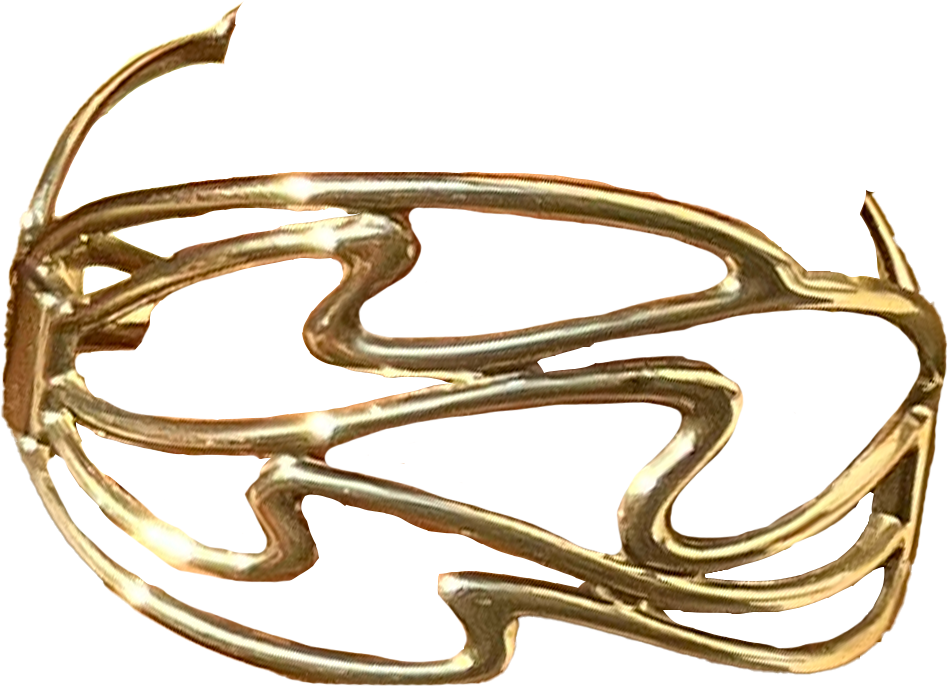
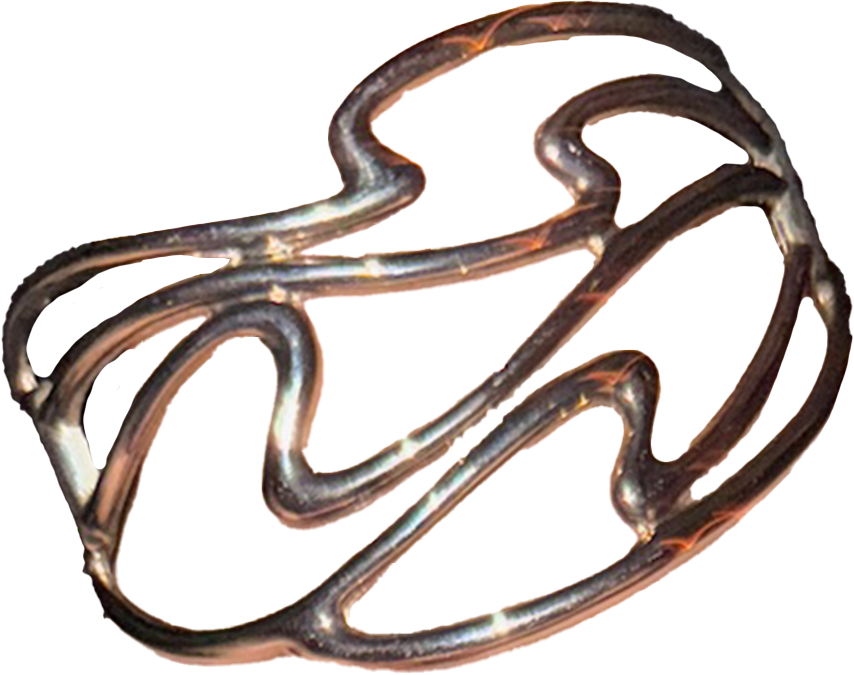
added new items to closet

diff --git a/static/styles.css b/static/styles.css
@@ -105,7 +105,7 @@ a:active {
 body.closet-landing .content-container {
     width: 100%;
     height: 90%;
-    border: blue dashed 2px;
+    /* border: blue dashed 2px; */
     left: 0px;
     display: grid;
     /* Sidebar (first child) and page container (second child) side-by-side */
@@ -394,7 +394,7 @@ body.closet-landing .content-container > .page-container {
     grid-template-columns: 50% 40%;
     grid-template-rows: 100%;
     gap: 15px;
-    background-color: brown;
+    /* background-color: brown; */
     object-fit: contain;
 }
 
@@ -405,7 +405,7 @@ body.closet-landing .content-container > .page-container {
 .edit-piece-container-object{
     max-height: 90%;
     width: 100%;
-    border: greenyellow 2px solid;
+     /* border: greenyellow 2px solid; */
     object-fit: contain;
 }
 
@@ -541,7 +541,7 @@ body.closet-landing .content-container > .page-container {
 
 /* show all outfits page ______________________________________________________________________________ */
 .outfit-container{
-    border: greenyellow 2px solid;
+     /* border: greenyellow 2px solid; */
     width: auto;
     height: auto;
 }

diff --git a/app.py b/app.py
@@ -14,6 +14,8 @@ app.config["SQLALCHEMY_DATABASE_URI"] = (
 )
 app.config['SQLALCHEMY_TRACK_MODIFICATIONS'] = False
 
+print("DATABASE:", os.path.join(app.instance_path, "outfitarchive.db"))
+
 # initialize extensions
 db.init_app(app)
 csrf.init_app(app)
